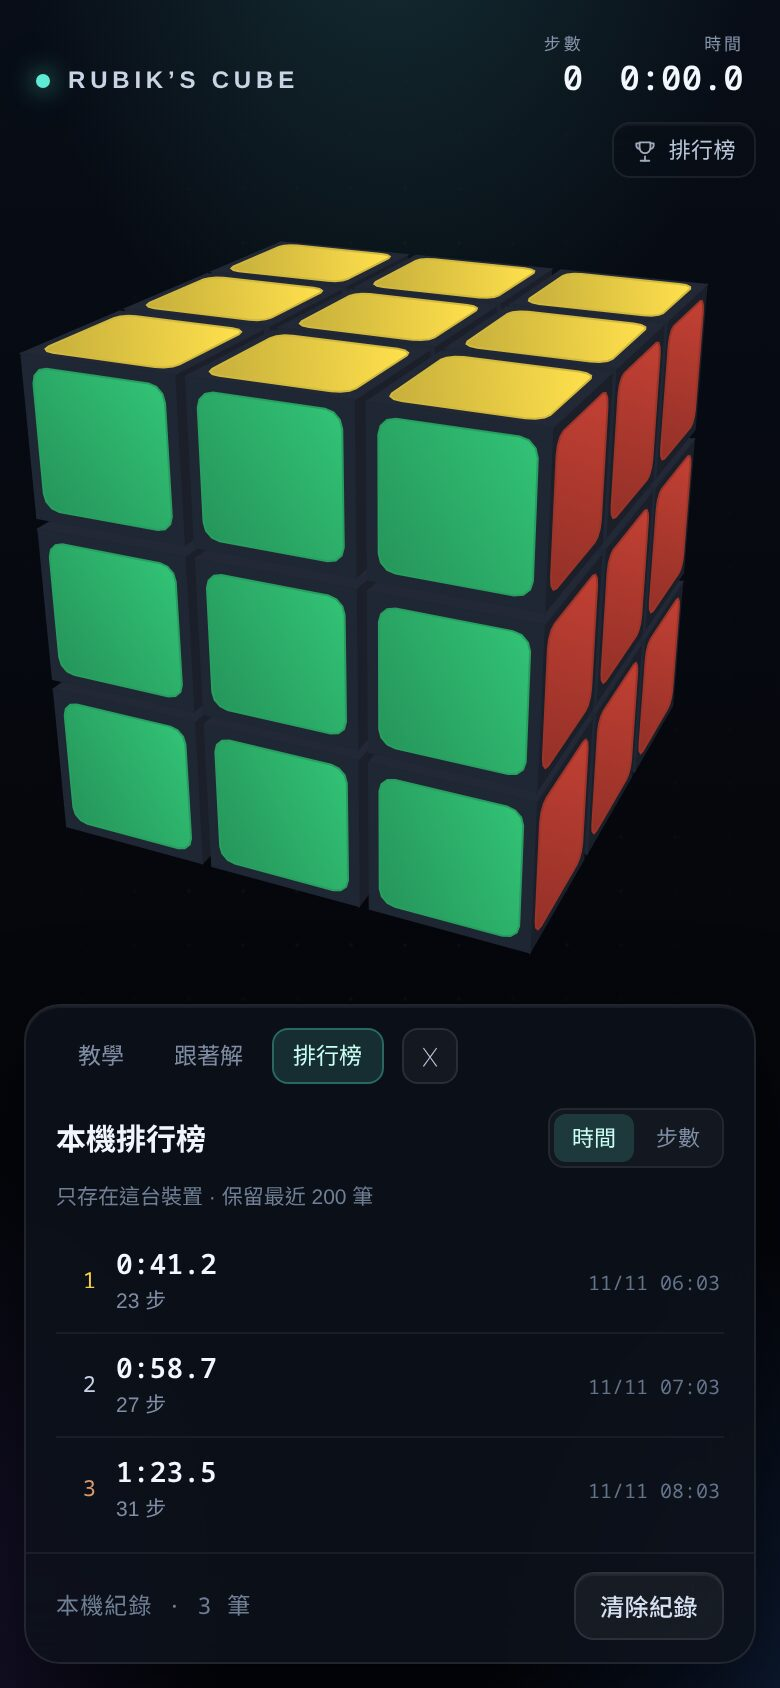
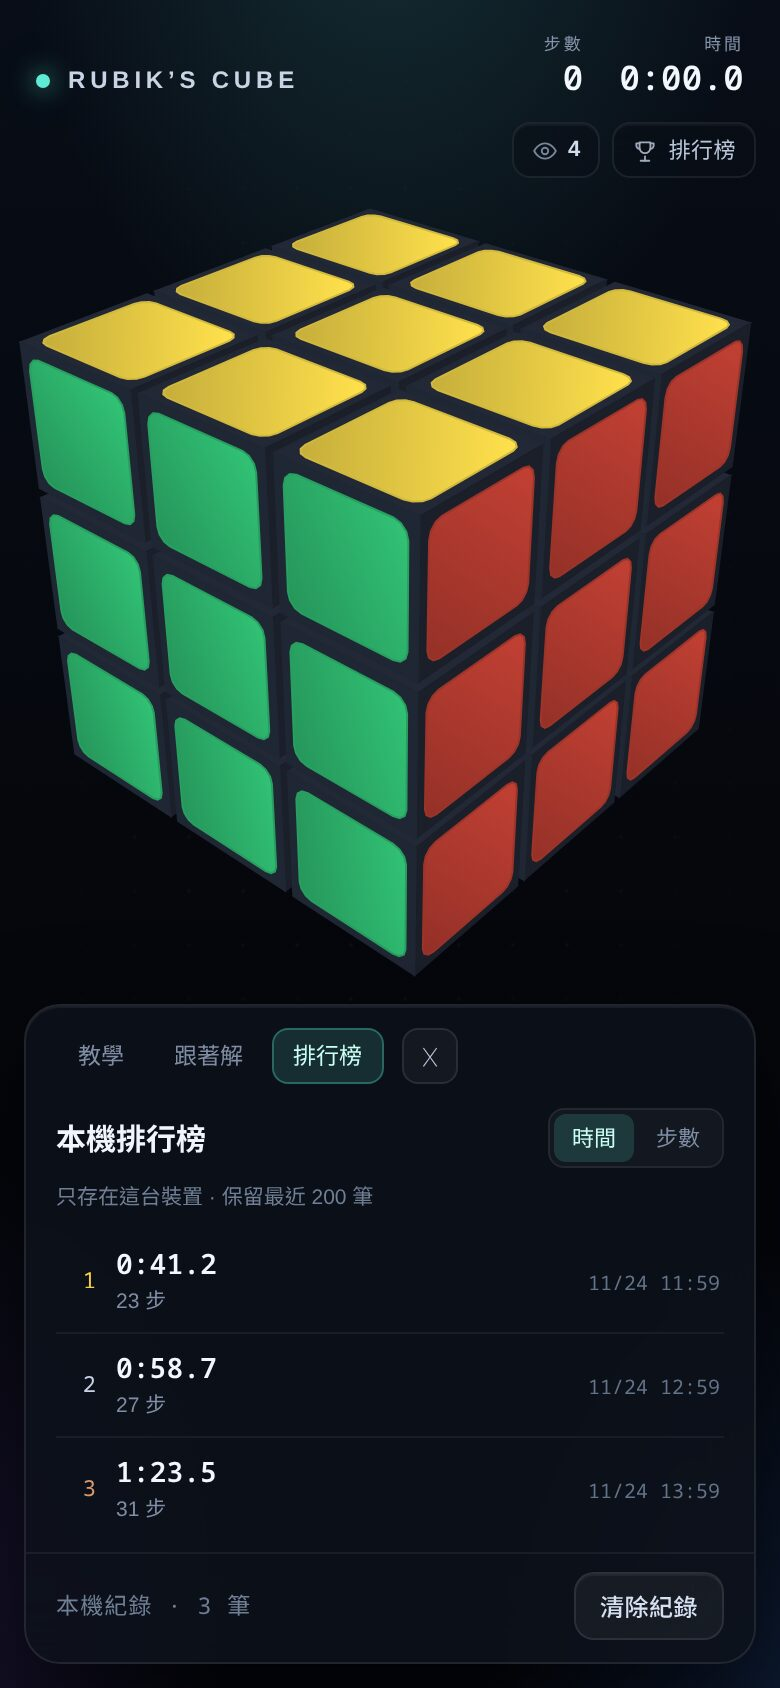
Allow unlimited cube rotation with a quaternion trackball
Replace the pole-clamped theta/phi turntable camera with a quaternion
orientation. Dragging now yaws and pitches around the camera's own axes,
so the cube can be rolled past the top and bottom and spun forever.
fitDistance and picking keep using the resulting orthonormal basis; the
home view is numerically identical to before.

Also stop opening the leaderboard from moving the camera, and refresh the
README screenshots (the GoatCounter visit pill is visible now that the
visitor counter is enabled).

diff --git a/index.html b/index.html
@@ -1221,12 +1221,119 @@ loadVisitCount();
 
 const HOME_VIEW = { theta: 0.72, phi: 1.02, dolly: 1 };
 
+/* quaternion helpers — a trackball has no poles, so the view can spin forever */
+
+function quatFromAxisAngle(axis, angle) {
+  const half = angle / 2;
+  const s = Math.sin(half);
+  return [Math.cos(half), axis[0] * s, axis[1] * s, axis[2] * s];
+}
+
+function quatMul(a, b) {
+  return [
+    a[0] * b[0] - a[1] * b[1] - a[2] * b[2] - a[3] * b[3],
+    a[0] * b[1] + a[1] * b[0] + a[2] * b[3] - a[3] * b[2],
+    a[0] * b[2] - a[1] * b[3] + a[2] * b[0] + a[3] * b[1],
+    a[0] * b[3] + a[1] * b[2] - a[2] * b[1] + a[3] * b[0],
+  ];
+}
+
+function quatNormalize(q) {
+  const len = Math.hypot(q[0], q[1], q[2], q[3]) || 1;
+  return [q[0] / len, q[1] / len, q[2] / len, q[3] / len];
+}
+
+function quatSlerp(a, b, t) {
+  let bw = b[0], bx = b[1], by = b[2], bz = b[3];
+  let dot = a[0] * bw + a[1] * bx + a[2] * by + a[3] * bz;
+  if (dot < 0) {
+    bw = -bw;
+    bx = -bx;
+    by = -by;
+    bz = -bz;
+    dot = -dot;
+  }
+  if (dot > 0.9995) {
+    return quatNormalize([
+      a[0] + (bw - a[0]) * t,
+      a[1] + (bx - a[1]) * t,
+      a[2] + (by - a[2]) * t,
+      a[3] + (bz - a[3]) * t,
+    ]);
+  }
+  const theta = Math.acos(Math.min(1, dot));
+  const sin = Math.sin(theta);
+  const s0 = Math.sin((1 - t) * theta) / sin;
+  const s1 = Math.sin(t * theta) / sin;
+  return [
+    a[0] * s0 + bw * s1,
+    a[1] * s0 + bx * s1,
+    a[2] * s0 + by * s1,
+    a[3] * s0 + bz * s1,
+  ];
+}
+
+function quatToMat(q) {
+  const w = q[0], x = q[1], y = q[2], z = q[3];
+  const xx = x * x, yy = y * y, zz = z * z;
+  const xy = x * y, xz = x * z, yz = y * z;
+  const wx = w * x, wy = w * y, wz = w * z;
+  return [
+    [1 - 2 * (yy + zz), 2 * (xy - wz), 2 * (xz + wy)],
+    [2 * (xy + wz), 1 - 2 * (xx + zz), 2 * (yz - wx)],
+    [2 * (xz - wy), 2 * (yz + wx), 1 - 2 * (xx + yy)],
+  ];
+}
+
+function quatFromMat(m) {
+  const trace = m[0][0] + m[1][1] + m[2][2];
+  let w, x, y, z;
+  if (trace > 0) {
+    const s = Math.sqrt(trace + 1) * 2;
+    w = 0.25 * s;
+    x = (m[2][1] - m[1][2]) / s;
+    y = (m[0][2] - m[2][0]) / s;
+    z = (m[1][0] - m[0][1]) / s;
+  } else if (m[0][0] > m[1][1] && m[0][0] > m[2][2]) {
+    const s = Math.sqrt(1 + m[0][0] - m[1][1] - m[2][2]) * 2;
+    w = (m[2][1] - m[1][2]) / s;
+    x = 0.25 * s;
+    y = (m[0][1] + m[1][0]) / s;
+    z = (m[0][2] + m[2][0]) / s;
+  } else if (m[1][1] > m[2][2]) {
+    const s = Math.sqrt(1 + m[1][1] - m[0][0] - m[2][2]) * 2;
+    w = (m[0][2] - m[2][0]) / s;
+    x = (m[0][1] + m[1][0]) / s;
+    y = 0.25 * s;
+    z = (m[1][2] + m[2][1]) / s;
+  } else {
+    const s = Math.sqrt(1 + m[2][2] - m[0][0] - m[1][1]) * 2;
+    w = (m[1][0] - m[0][1]) / s;
+    x = (m[0][2] + m[2][0]) / s;
+    y = (m[1][2] + m[2][1]) / s;
+    z = 0.25 * s;
+  }
+  return quatNormalize([w, x, y, z]);
+}
+
+/** turn a classic theta/phi viewpoint into an orientation quaternion */
+function viewQuat(theta, phi) {
+  const sp = Math.sin(phi);
+  const u = [sp * Math.sin(theta), Math.cos(phi), sp * Math.cos(theta)];
+  const x = norm3(cross3([0, 1, 0], u));
+  const y = cross3(u, x);
+  const m = [
+    [x[0], y[0], u[0]],
+    [x[1], y[1], u[1]],
+    [x[2], y[2], u[2]],
+  ];
+  return quatFromMat(m);
+}
+
 const orbit = {
-  theta: HOME_VIEW.theta,
-  phi: HOME_VIEW.phi,
+  q: viewQuat(HOME_VIEW.theta, HOME_VIEW.phi),
+  tq: viewQuat(HOME_VIEW.theta, HOME_VIEW.phi),
   dolly: HOME_VIEW.dolly,
-  tTheta: HOME_VIEW.theta,
-  tPhi: HOME_VIEW.phi,
   tDolly: HOME_VIEW.dolly,
 };
 
@@ -1245,6 +1352,42 @@ for (let i = 0; i < 8; i++) {
   ]);
 }
 
+/** point the camera basis at an orientation quaternion */
+function applyQuat(q) {
+  const m = quatToMat(q);
+  basisX[0] = m[0][0];
+  basisX[1] = m[1][0];
+  basisX[2] = m[2][0];
+  basisY[0] = m[0][1];
+  basisY[1] = m[1][1];
+  basisY[2] = m[2][1];
+  basisZ[0] = m[0][2];
+  basisZ[1] = m[1][2];
+  basisZ[2] = m[2][2];
+}
+
+/** drag by screen pixels: yaw around the camera's up, pitch around its right */
+function rotateView(dx, dy) {
+  if (!dx && !dy) return;
+
+  const m = quatToMat(orbit.tq);
+  const right = [m[0][0], m[1][0], m[2][0]];
+  const up = [m[0][1], m[1][1], m[2][1]];
+  const k = 0.0072;
+
+  const dq = quatMul(
+    quatFromAxisAngle(right, -dy * k),
+    quatFromAxisAngle(up, -dx * k)
+  );
+  orbit.tq = quatNormalize(quatMul(dq, orbit.tq));
+  markInteracted();
+}
+
+/** smooth transition to a classic theta/phi viewpoint */
+function setView(theta, phi) {
+  orbit.tq = viewQuat(theta, phi);
+}
+
 /**
  * Exact distance at which the eight corners of the cube just fit the view.
  * For each corner the camera must sit far enough back that the corner's
@@ -1254,14 +1397,9 @@ function fitDistance() {
   const tanV = Math.tan(FOV / 2);
   const tanH = tanV * (view.w / Math.max(1, view.h));
 
-  const sp = Math.sin(orbit.phi);
-  const u = [
-    sp * Math.sin(orbit.theta),
-    Math.cos(orbit.phi),
-    sp * Math.cos(orbit.theta),
-  ];
-  const right = norm3(cross3([0, 1, 0], u));
-  const up = cross3(u, right);
+  const u = basisZ;
+  const right = basisX;
+  const up = basisY;
 
   let need = 0;
   for (const p of CORNERS) {
@@ -1275,28 +1413,12 @@ function fitDistance() {
 }
 
 function updateCamera() {
+  applyQuat(orbit.q);
+
   const dist = fitDistance() * orbit.dolly;
-  const sp = Math.sin(orbit.phi);
-  const cp = Math.cos(orbit.phi);
-
-  eye[0] = dist * sp * Math.sin(orbit.theta);
-  eye[1] = dist * cp;
-  eye[2] = dist * sp * Math.cos(orbit.theta);
-
-  const len = Math.hypot(eye[0], eye[1], eye[2]) || 1;
-  basisZ[0] = eye[0] / len;
-  basisZ[1] = eye[1] / len;
-  basisZ[2] = eye[2] / len;
-
-  const x = norm3(cross3([0, 1, 0], basisZ));
-  basisX[0] = x[0];
-  basisX[1] = x[1];
-  basisX[2] = x[2];
-
-  const y = cross3(basisZ, basisX);
-  basisY[0] = y[0];
-  basisY[1] = y[1];
-  basisY[2] = y[2];
+  eye[0] = basisZ[0] * dist;
+  eye[1] = basisZ[1] * dist;
+  eye[2] = basisZ[2] * dist;
 
   view.cx = view.w / 2;
   view.cy = view.h / 2;
@@ -1729,8 +1851,7 @@ function doReset() {
   hideToast();
   resetTimer();
 
-  orbit.tTheta = HOME_VIEW.theta;
-  orbit.tPhi = HOME_VIEW.phi;
+  setView(HOME_VIEW.theta, HOME_VIEW.phi);
   orbit.tDolly = HOME_VIEW.dolly;
 }
 
@@ -1870,11 +1991,7 @@ function onPointerMove(e) {
     const [a, b] = [...pointers.values()];
     // two fingers: drag the midpoint to orbit, spread them to zoom
     const mid = { x: (a.x + b.x) / 2, y: (a.y + b.y) / 2 };
-    if (pinchMid) {
-      const k = 0.0072;
-      orbit.tTheta -= (mid.x - pinchMid.x) * k;
-      orbit.tPhi = clamp(orbit.tPhi - (mid.y - pinchMid.y) * k, 0.18, Math.PI - 0.18);
-    }
+    if (pinchMid) rotateView(mid.x - pinchMid.x, mid.y - pinchMid.y);
     pinchMid = mid;
 
     const d = Math.hypot(a.x - b.x, a.y - b.y);
@@ -1888,10 +2005,7 @@ function onPointerMove(e) {
   if (!drag) return;
 
   if (drag.mode === "orbit") {
-    const k = 0.0072;
-    orbit.tTheta -= dx * k;
-    orbit.tPhi = clamp(orbit.tPhi - dy * k, 0.18, Math.PI - 0.18);
-    markInteracted();
+    rotateView(dx, dy);
     return;
   }
 
@@ -2140,8 +2254,7 @@ canvas.addEventListener(
 );
 
 canvas.addEventListener("dblclick", () => {
-  orbit.tTheta = HOME_VIEW.theta;
-  orbit.tPhi = HOME_VIEW.phi;
+  setView(HOME_VIEW.theta, HOME_VIEW.phi);
   orbit.tDolly = HOME_VIEW.dolly;
 });
 
@@ -2441,8 +2554,7 @@ function tutOpen(mode) {
   if (mode) tutMode = mode;
   tutGo(tutStep);
   setTutMode(tutMode);
-  orbit.tTheta = 0.42;
-  orbit.tPhi = 1.16;
+  if (mode !== "board") setView(0.42, 1.16);
   markInteracted();
 }
 
@@ -3225,8 +3337,7 @@ function frame(now) {
   last = now;
 
   const k = 1 - Math.exp(-13 * dt);
-  orbit.theta += (orbit.tTheta - orbit.theta) * k;
-  orbit.phi += (orbit.tPhi - orbit.phi) * k;
+  orbit.q = quatSlerp(orbit.q, orbit.tq, k);
   orbit.dolly += (orbit.tDolly - orbit.dolly) * k;
   updateCamera();
 

diff --git a/README.md b/README.md
@@ -20,12 +20,12 @@
 
 - **真的 3D，但不是 WebGL** — 自己寫的軟體渲染器：透視投影、畫家演算法排序、逐面打光。Canvas 2D 就能跑，老手機、WebView、不支援 WebGL 的瀏覽器都能開。
 - **拖一個面就轉那一層** — 抓哪一塊就轉哪一層，中間層也可以。
-- **拖空白處轉視角** — 在黑色背景上拖曳就能旋轉視角；滾輪或雙指捏合縮放，雙擊回到預設角度。
+- **拖空白處轉視角** — 在黑色背景上拖曳就能旋轉視角，任何方向都可以無限翻轉、沒有上下極限；滾輪或雙指捏合縮放，雙擊回到預設角度。
 - **打亂 / 復原 / 還原 / 計時** — 步數與時間自動計算，完成時有慶祝提示。
 - **教學** — 層先法七步，每一步的公式都能直接在方塊上播放示範，看不懂就再播一次。
 - **跟著解** — 讀目前的盤面，告訴你「現在這一步該轉什麼」，可以單步跟，也可以一次解完；中途自己亂轉它會重算。
 - **本機排行榜** — 每次自己復原完成會自動記錄時間與步數（使用教學或跟著解輔助的回合不列入）；成績只存在這台裝置的瀏覽器裡。
-- **瀏覽人次** — 右上角顯示 GoatCounter 的總瀏覽次數（需在 GoatCounter 開啟 visitor counter 設定）。
+- **瀏覽人次** — 右上角顯示 GoatCounter 的總瀏覽次數。
 - **手機優先** — 390 / 360 寬的螢幕都剛好塞得下。
 - **鍵盤操作** — `U D L R F B` 轉面（按 `Shift` 反向）、`Space` 打亂、`Z`／`Backspace` 復原。
 
@@ -34,7 +34,7 @@
 | 操作 | 動作 |
 | --- | --- |
 | 拖曳貼紙 | 轉動那一層（含中間層） |
-| 拖曳黑色空白處、雙指拖曳 | 旋轉視角 |
+| 拖曳黑色空白處、雙指拖曳 | 旋轉視角（可無限翻轉） |
 | 滾輪、雙指捏合 | 縮放 |
 | 雙擊畫面 | 回到預設視角 |
 | 鍵盤 `U D L R F B` | 轉對應的面，加 `Shift` 反向 |
@@ -82,7 +82,7 @@ xdg-open index.html   # macOS 可用 open index.html
 
 `index.html` 裡的 `ANALYTICS_ENDPOINT` 指向 `https://stansu-rc.goatcounter.com/count`。若不想統計，把它改成空字串 `""` 即可；此時不會載入任何外部程式，也不會發出任何請求。
 
-頁面右上角會顯示 GoatCounter 的**總瀏覽次數**。要讓數字出現，請到 GoatCounter 的 **Settings → Allow adding visitor counts on your website** 打開；計數回應最多快取 4 小時，所以數字會稍微落後。沒開啟時，這個小視窗會自動隱藏。
+頁面右上角會顯示 GoatCounter 的**總瀏覽次數**；GoatCounter 的 visitor counter 設定已經開啟。若是 fork 到自己的 site，記得在 **Settings → Allow adding visitor counts on your website** 打開；計數回應最多快取 4 小時，所以數字會稍微落後。沒開啟時，這個小視窗會自動隱藏。
 
 會記錄的遊玩事件（同一次瀏覽只算一次 `played`）：
 
@@ -101,7 +101,7 @@ xdg-open index.html   # macOS 可用 open index.html
 
 **渲染** — 每個方塊用 3×3 整數旋轉矩陣記錄姿態（轉動永遠是 90° 的倍數，所以不會累積誤差）。畫的時候把 26 個小方塊的 6 個面投影到螢幕，背面剔除後依深度排序、由遠而近填色；貼紙是圓角矩形的多邊形，跟著同一個投影走，所以透視是正確的。
 
-**互動** — 指標按下時，從眼睛射出一條射線，跟每個小方塊的包圍盒求交，決定抓到哪個面、哪一層；再把拖曳方向投影回螢幕，決定順時針或逆時針。射線沒打中任何方塊時才進入 orbit 模式，拖曳改成旋轉相機。
+**互動** — 指標按下時，從眼睛射出一條射線，跟每個小方塊的包圍盒求交，決定抓到哪個面、哪一層；再把拖曳方向投影回螢幕，決定順時針或逆時針。射線沒打中任何方塊時才進入 orbit 模式，拖曳改成旋轉相機。相機用四元數（quaternion）做 trackball，所以可以往任何方向無限翻轉，不會在上下極點被卡住。
 
 **解算** — 層先法（底面十字 → 第一層角塊 → 中層邊塊 → 頂面十字 → 頂面全黃 → 頂角歸位 → 頂邊歸位）。
 前三步用「小花」加上有界搜尋；後四步是「轉一下頂層 + 套公式」，用迭代加深搜尋找出最短的套用次數。
@@ -121,7 +121,7 @@ Rubiks.state();          // 目前盤面、步數、佇列狀態
 ## 專案結構
 
 ```
-index.html     整站（HTML + CSS + JS 全部內嵌，約 85 KB）
+index.html     整站（HTML + CSS + JS 全部內嵌，約 88 KB）
 docs/          README 用的截圖
 LICENSE        MIT 授權
 ```
